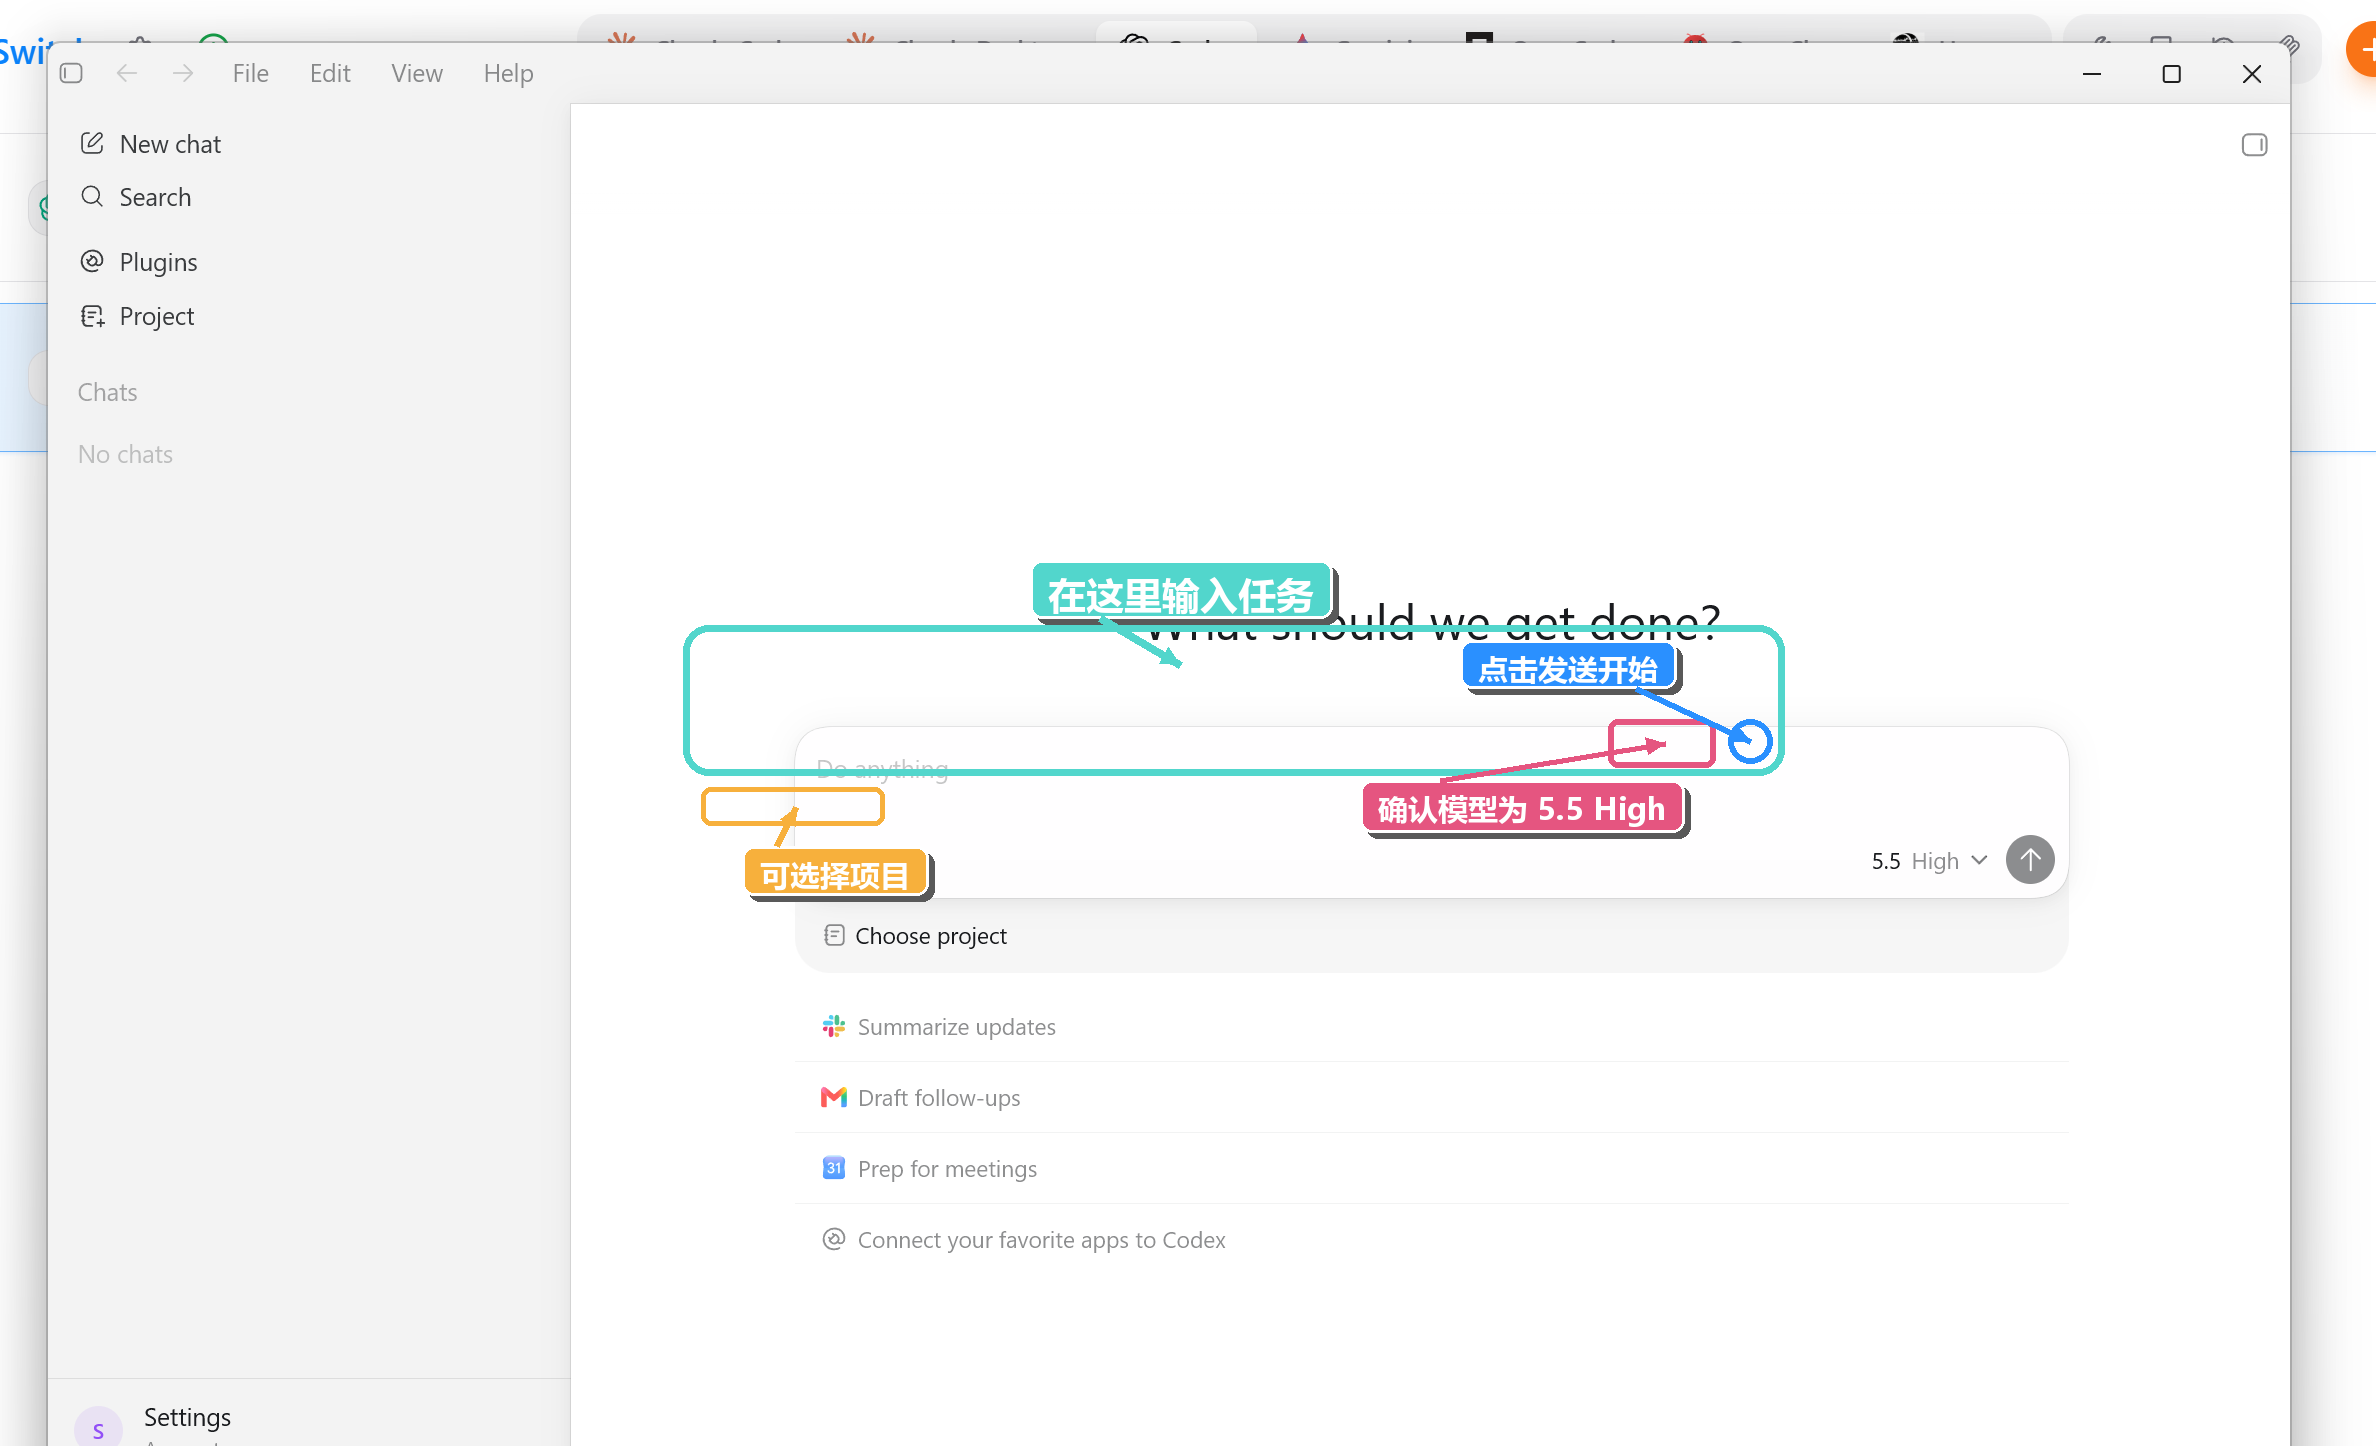
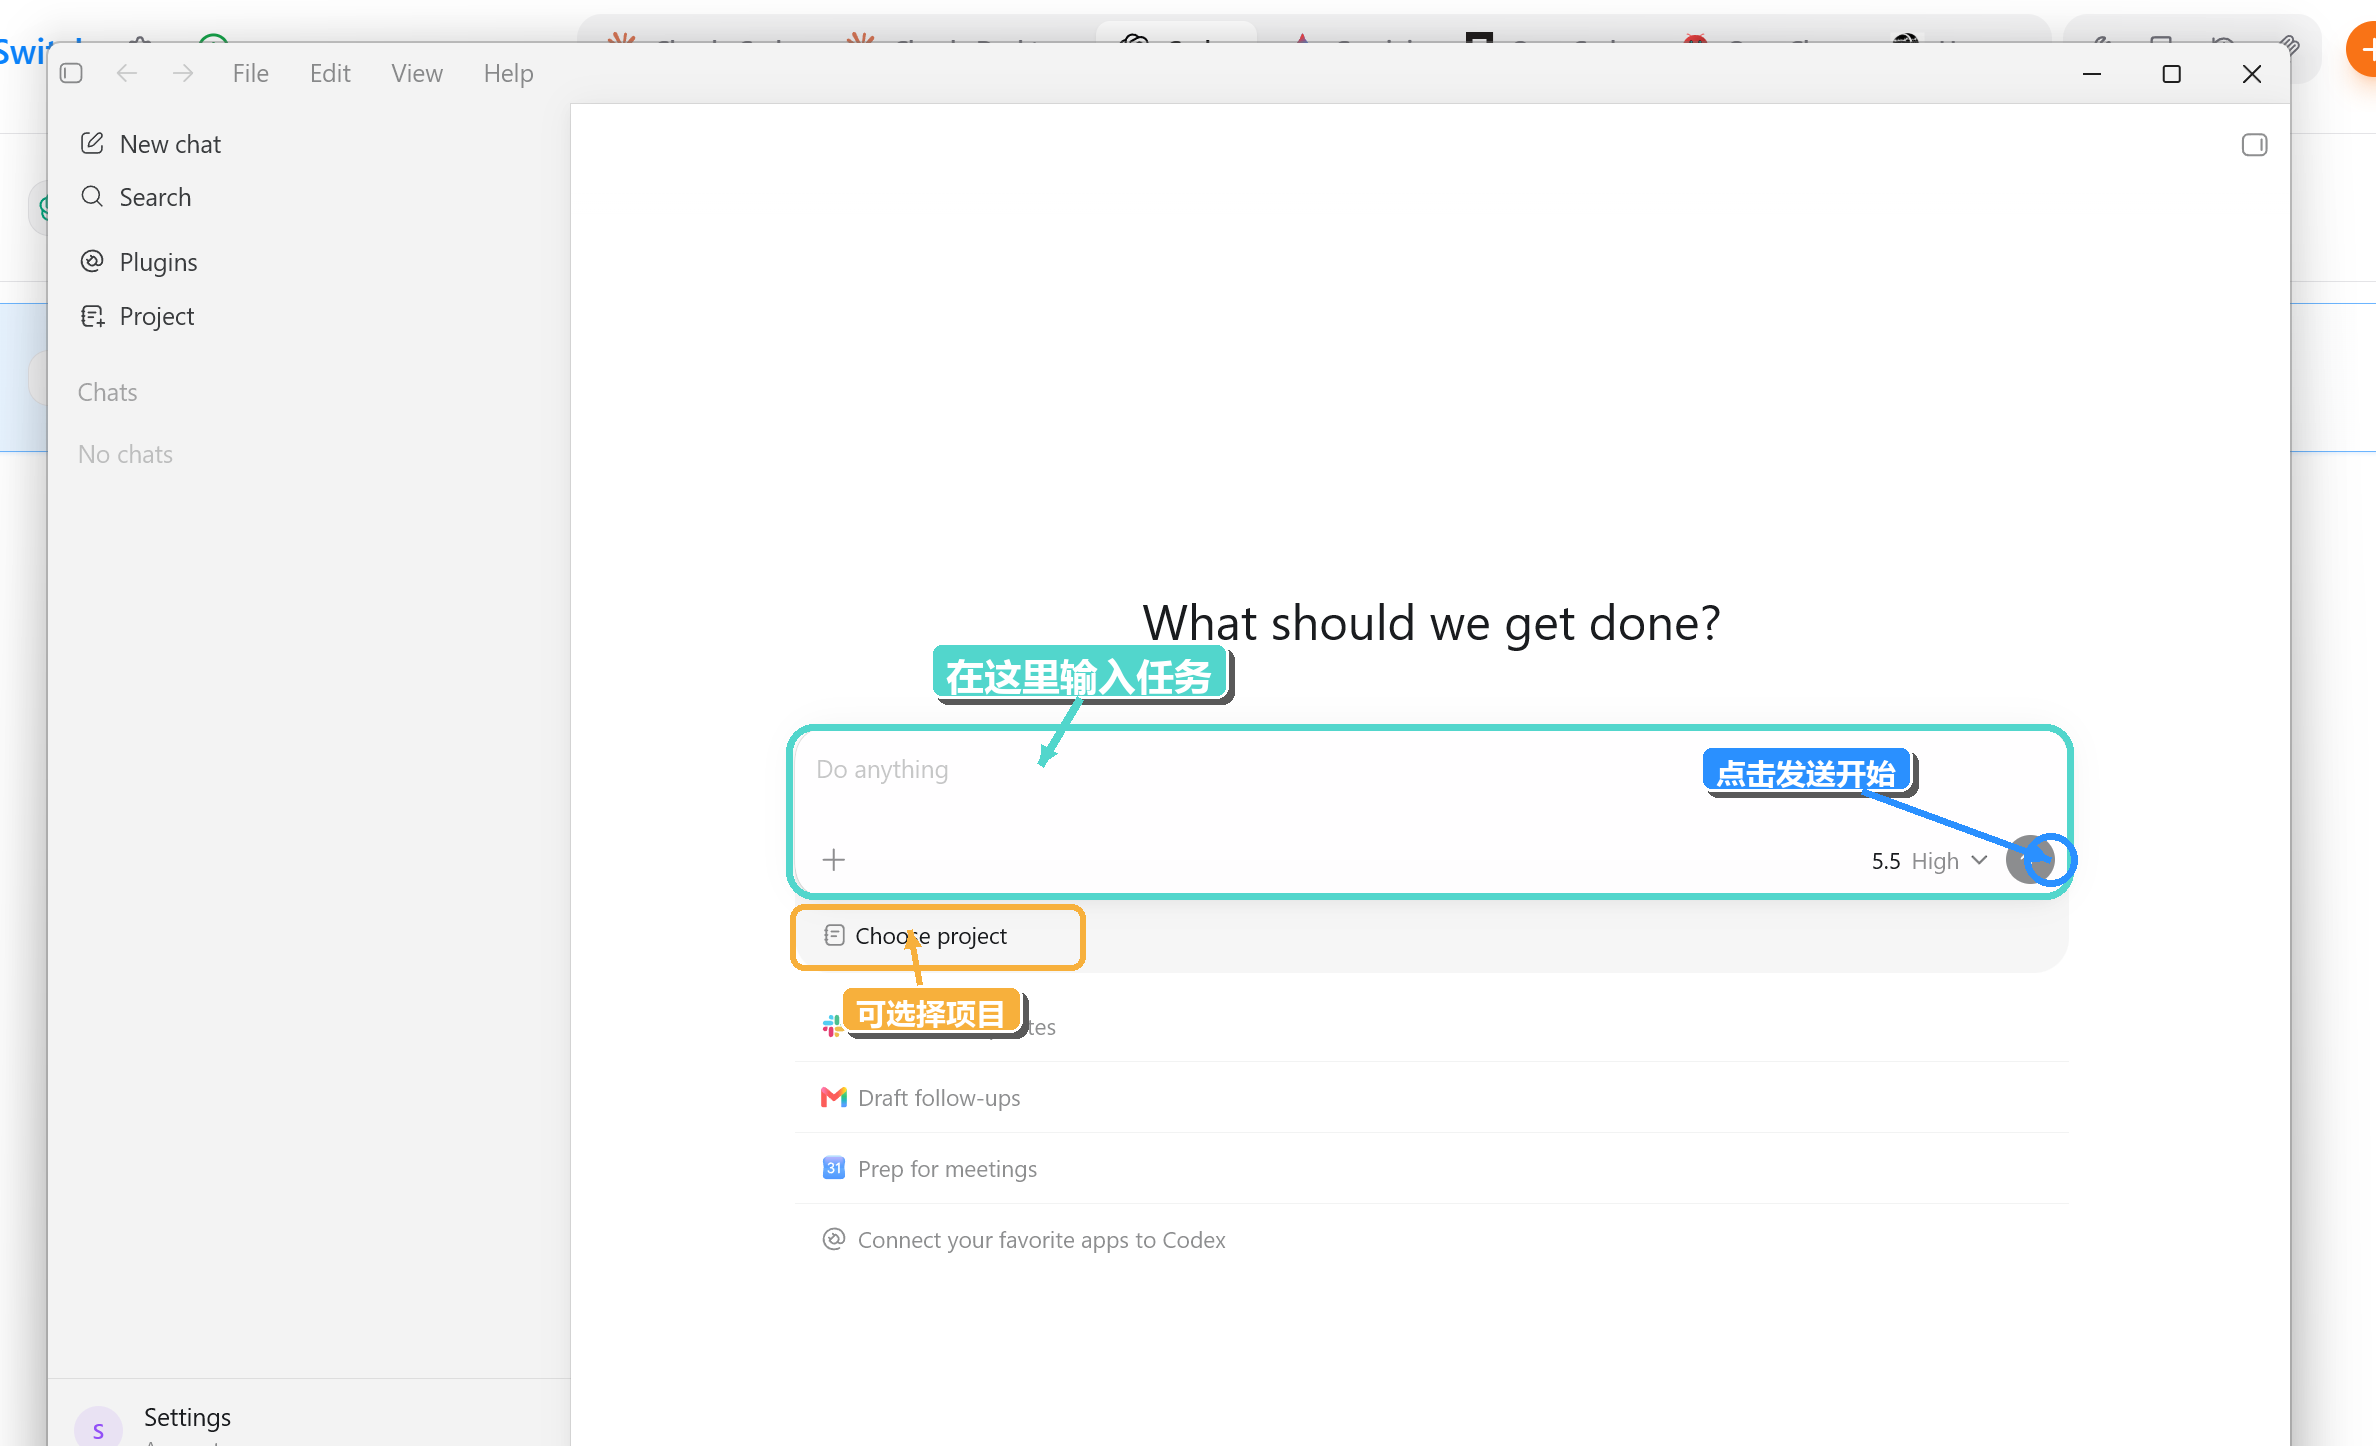
Deploy current wiki site (4f6e866)

Changed region(s): [[0.2803, 0.3734, 0.8721, 0.7158], [0.2803, 0.4357, 0.3114, 0.4668]]

diff --git a/index.html b/index.html
@@ -359,12 +359,12 @@
                 src="assets/tutorial/codex-store-download-annotated.png"
                 width="2048"
                 height="1125"
-                alt="Microsoft Store Codex 下载页面截图，箭头标出下载按钮和 Microsoft Store 查看按钮。"
+                alt="Microsoft Store Codex 下载页面截图，箭头标出下载按钮。"
                 loading="lazy"
                 decoding="async"
               >
             </a>
-            <figcaption>打开 Microsoft Store 页面后，点击“下载”安装 Codex，也可以选择“在 Microsoft Store 中查看”。</figcaption>
+            <figcaption>打开 Microsoft Store 页面后，点击“下载”安装 Codex。</figcaption>
           </figure>
         </section>
 
@@ -372,7 +372,7 @@
           <p class="eyebrow">第三部分</p>
           <h2 id="codex-start-title">开始使用</h2>
           <p class="lead">
-            安装并打开 Codex 后，在输入框里输入任务，确认模型为 <code>5.5 High</code>，需要时选择项目，然后点击发送按钮开始使用。
+            安装并打开 Codex 后，在输入框里输入任务，需要时选择项目，然后点击发送按钮开始使用。
           </p>
           <figure class="step-figure">
             <a href="assets/tutorial/codex-start-annotated.png" target="_blank" rel="noreferrer">
@@ -380,12 +380,12 @@
                 src="assets/tutorial/codex-start-annotated.png"
                 width="2048"
                 height="1242"
-                alt="Codex 开始使用界面截图，箭头标出任务输入框、模型选择、选择项目和发送按钮。"
+                alt="Codex 开始使用界面截图，箭头标出任务输入框、选择项目和发送按钮。"
                 loading="lazy"
                 decoding="async"
               >
             </a>
-            <figcaption>在输入框输入任务，确认使用 <code>5.5 High</code>，可按需要选择项目，最后点击发送开始。</figcaption>
+            <figcaption>在输入框输入任务，可按需要选择项目，最后点击发送开始。</figcaption>
           </figure>
         </section>
 
@@ -438,7 +438,7 @@
             </label>
             <label>
               <input type="checkbox">
-              Codex 已安装，可以输入任务并使用 <code>5.5 High</code> 开始对话
+              Codex 已安装，可以输入任务并开始对话
             </label>
           </div>
         </section>